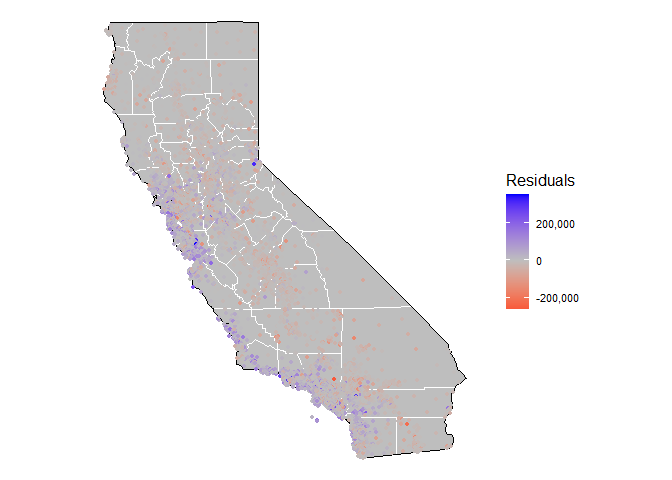
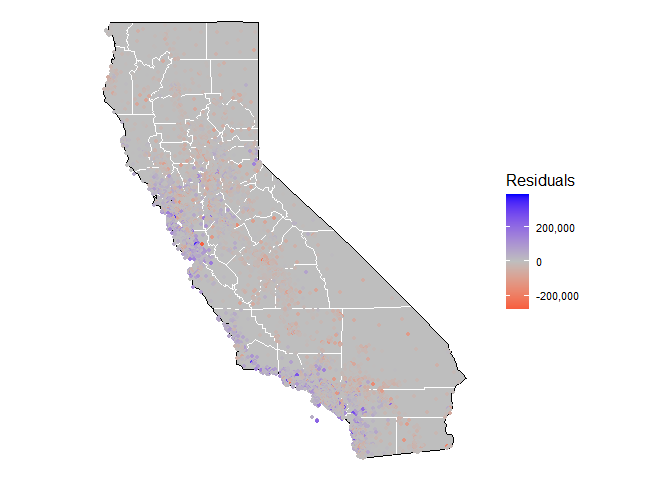
Updates and solution/write-up for problem 3.

diff --git a/taylor-neal-hw3.md b/taylor-neal-hw3.md
@@ -115,7 +115,85 @@ hotter.
 
 ## 3) Predictive Model Building: Green Certification
 
-TBU
+For this exercise, we sought to build the best model possible for
+predicting revenue per square foot per calendar year for commercial
+rental properties across the United States. The primary modeling focus
+utilized random forests. Prior to model building, multiple features were
+added to the data set in order to streamline the model building process.
+First, a revenue per square foot of lease space variable was added to
+the data (as this is the outcome of interest). Building class was also
+condensed to a single variable as a factor with three levels (A, B and
+C). The net indicator variable was interacted with gas and electricity
+costs so those would only be present as positive values in circumstances
+where renters are responsible for paying their own utilities. Finally,
+when missing values or zeros did not allow for the inclusion of revenue
+per square foot for an observation those few instances were removed.
+
+During the model building phase of analysis, 20% of the data set was
+withheld for testing and model validation. When selecting parameters for
+models and comparing out-of-sample performance, ten random train/test
+splits were run and average out-of-sample RMSE was compared to determine
+appropriate parameters and model setup. The final tree utilizes 14
+predictor variables, 500 trees and 4 randomly sampled variables per
+tree. As an additional note, attempts were made at utilizing stratified
+sampling to reduce the variability in out-of-sample RMSE test results
+(by stratifying across the clusters in the data set); however, this led
+to an increase in average RMSE (by about 7.6%) when comparing the
+additional 10 80%/20% train test splits.
+
+<img src="taylor-neal-hw3_files/figure-gfm/green-forest-error-plot-1.png" style="display: block; margin: auto;" />
+
+The error plot for our resulting random forest model (above), indicates
+that 500 trees is enough to realize all potential gains from larger
+forests. This was the case for all of the iterations of parameters and
+model specifications attempted. Note that for this single train/test
+split, the out-of-sample estimate of RMSE was 7.48.
+
+<img src="taylor-neal-hw3_files/figure-gfm/var-importance-plot-1.png" style="display: block; margin: auto;" />
+
+The variable importance plot (above), lists all of our model’s predictor
+variables in order of importance. The chart on the left displays an
+estimate of the percentage increase in mean squared error that would
+result from excluding said variable. The most important predictors
+(`age`, `stories`, `size`, and `City_Market_Rent`) all make sense as the
+driving factors of revenue per square foot per calendar year.
+`net_elec_cost` and `net_gas_cost` impact relatively few of the
+observations so those being at the bottom of both charts is not
+particularly surprising. We do also find that `green_rating` also
+appears near the very bottom of both importance plots which would seem
+to indicate they aren’t carrying a lot of weight with regard to how much
+revenue a commercial building can bring in, but next we will examine its
+partial dependence plot to investigate further.
+
+<img src="taylor-neal-hw3_files/figure-gfm/green-amenities-partials-1.png" width="50%" /><img src="taylor-neal-hw3_files/figure-gfm/green-amenities-partials-2.png" width="50%" />
+
+In the plots above, we see the partial dependence for both
+`green_rating` and also `amenities` (included in order to compare our
+predictor of interest to another indicator variable). The green rating
+status (either LEED or Energystar certified) is expected to increase
+revenue per square foot per calendar year by about $1. This does not
+seem to be a particularly large impact (not surprising after observing
+the variable importance plots earlier). However, it does appear to be a
+slightly larger revenue expectation increase compared to a building
+including at lease one amenity on site (bank, convenience store, dry
+cleaner, restaurant, retail shops or fitness center). Green
+certification is not leading to a particularly large increase in average
+rental income per square foot (all else equal), so we will take a look
+at two more partial dependence plots before wrapping up so we can
+visualize what the variables of greater importance look like.
+
+<img src="taylor-neal-hw3_files/figure-gfm/size-stories-partials-1.png" width="50%" /><img src="taylor-neal-hw3_files/figure-gfm/size-stories-partials-2.png" width="50%" />
+
+The partial dependence plots above (for size/square footage and floors)
+clearly indicates that one of the most important factors that can drive
+companies to pay more for rental space is being in the biggest, tallest
+buildings. We can see by comparing the y-axis scales here to those for
+green rating and amenities previously that building size (generally)
+increases expected rental revenue on a square foot basis and drives a
+lot of the difference in rental rates for different buildings in the
+United States. Companies are likely paying more to be in the more
+impressive buildings as a status symbol for their various firms and
+green status makes a small little impact in comparison.
 
 ## 4) Predictive Model Building: California Housing
 
@@ -143,10 +221,10 @@ forest with 200 trees and 3 randomly sampled variables per tree.
 `medianHouseValue` is modeled based on `housingMedianAge`,
 `medianIncome`, `rooms_per_household`, `bedrooms_per_household`,
 `avg_household`, and `population`. The resulting model had an
-out-of-sample RMSE of 63,790. For benchmarking, a step-wise selected
+out-of-sample RMSE of 64,883. For benchmarking, a step-wise selected
 linear model was also fit (with the same explanatory variables as above
 for the random forest and in the space of all pairwise interactions).
-This resulted in an out-of-sample RMSE of 77,637.
+This resulted in an out-of-sample RMSE of 77,257.45.
 
 <img src="taylor-neal-hw3_files/figure-gfm/residuals-map-1.png" style="display: block; margin: auto;" />
 
